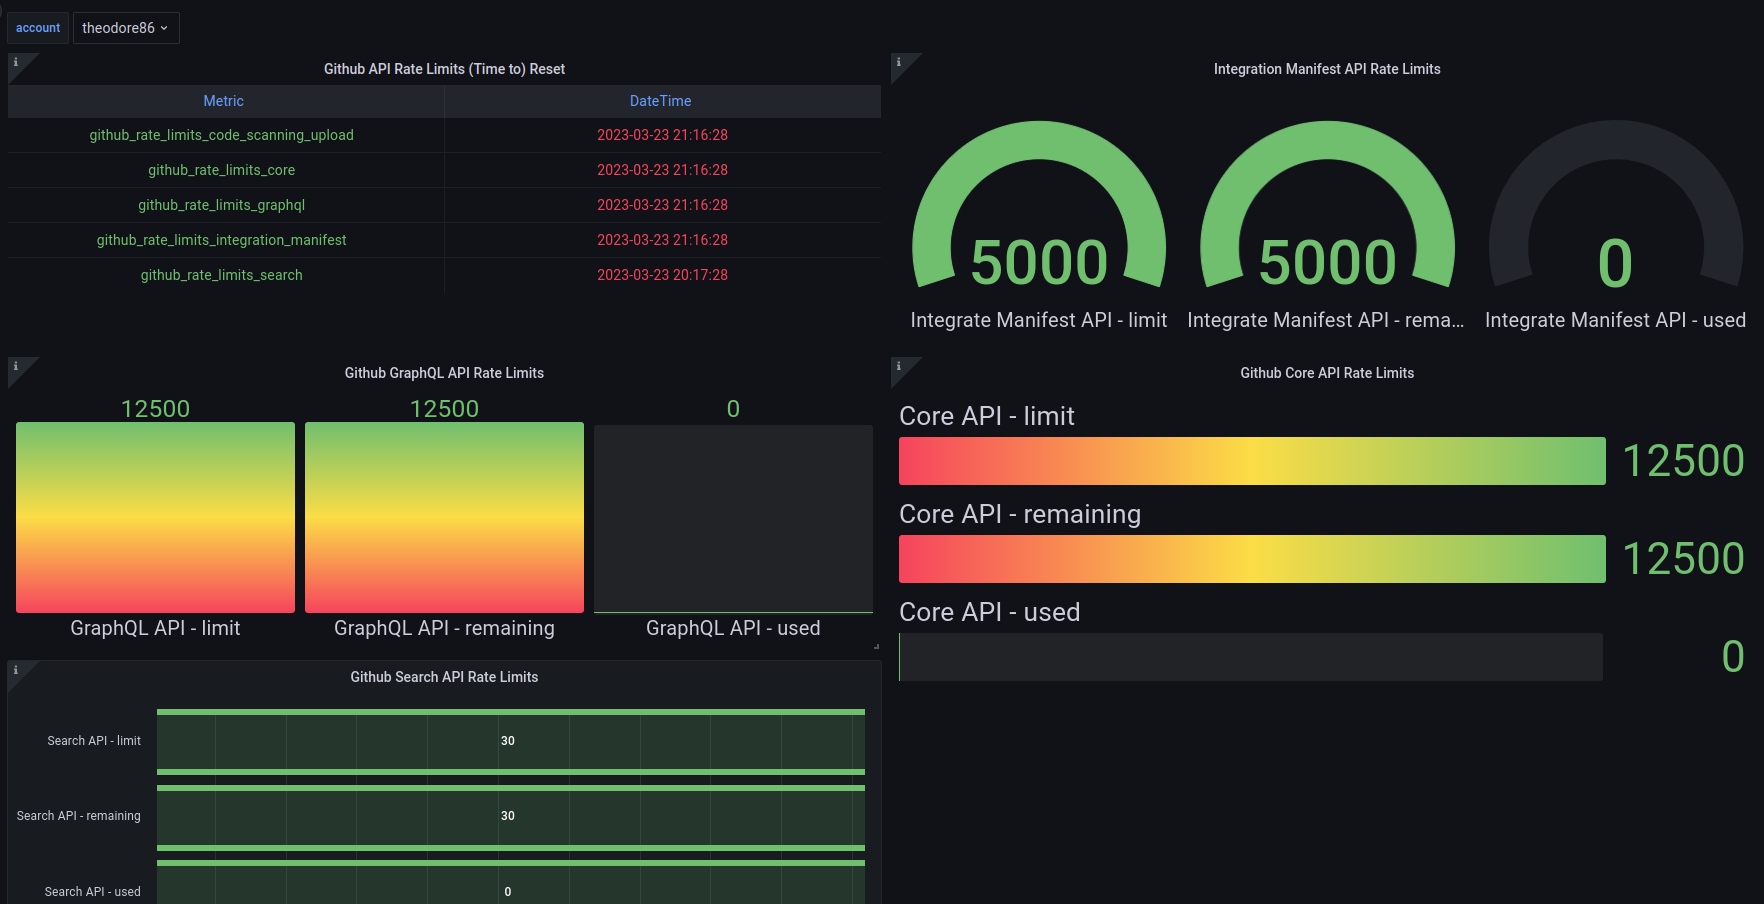
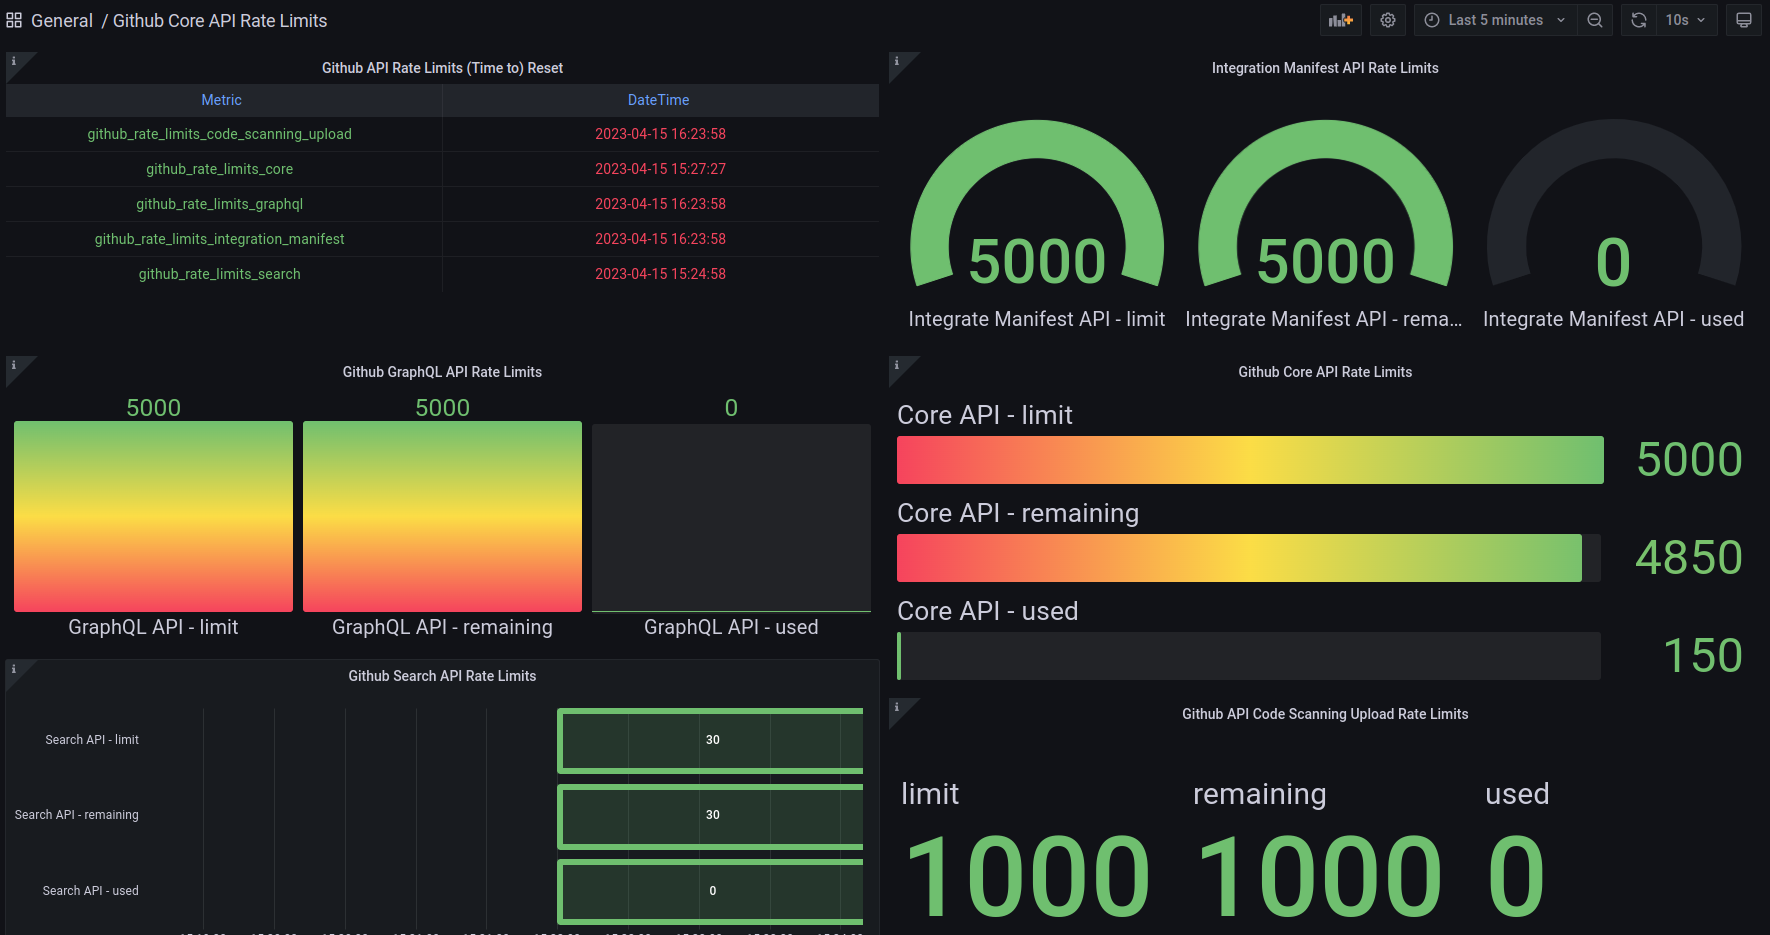
chore: update default grafana dashboard for gh-rate-limits

diff --git a/README.md b/README.md
@@ -1,6 +1,5 @@
 # github-rate-limits-exporter
 
-![Current Tag](https://img.shields.io/github/v/tag/theodore86/github-rate-limits-exporter)
 [![Docker CI](https://github.com/theodore86/github-rate-limits-exporter/actions/workflows/container-build-test-and-publish.yml/badge.svg)](https://github.com/theodore86/github-rate-limits-exporter/actions/workflows/container-build-test-and-publish.yml)
 [![Charts CI](https://github.com/theodore86/github-rate-limits-exporter/actions/workflows/chart-linting-and-testing.yml//badge.svg)](https://github.com/theodore86/github-rate-limits-exporter/actions/workflows/chart-linting-and-testing.yml)
 [![PyPI version](https://badge.fury.io/py/github-rate-limits-exporter.svg)](https://badge.fury.io/py/github-rate-limits-exporter)
